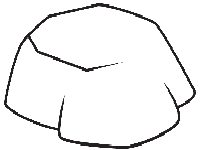
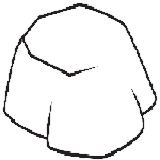
Resized the Hole and Rock images to be consistent sizes and allow for using scale multiplier to set size in meters, Fixed issue drawing rock and hole images when the map wasn't full scale

diff --git a/robotcontrollerclient/src/control.cpp b/robotcontrollerclient/src/control.cpp
@@ -215,6 +215,8 @@ class ImageOverlay : public Gtk::DrawingArea {
             return true;
         }
 
+        // Scale factor of map means 1m = 160px, so scale multiplier sets
+        // the size of the rock and hole to scale multiplier meters in radius
         void add_rock_image(int x, int y, double scale_multiplier) {
             rock_data.emplace_back(x, y, scale_multiplier);
             queue_draw();
@@ -263,14 +265,12 @@ class ImageOverlay : public Gtk::DrawingArea {
         cr->paint();
         cr->restore();
 
-        cr->restore();
-    
         // Draw rocks
         for (const auto& data : rock_data) {
             int new_width = rock->get_width() * data.scale_multiplier;
             int new_height = rock->get_height() * data.scale_multiplier;
             auto scaled_pixbuf = rock->scale_simple(new_width, new_height, Gdk::INTERP_BILINEAR);
-            Gdk::Cairo::set_source_pixbuf(cr, scaled_pixbuf, data.x, data.y);
+            Gdk::Cairo::set_source_pixbuf(cr, scaled_pixbuf, data.x - (new_width / 2), 800 - (data.y - new_height / 2));
             cr->paint();
         }
     
@@ -279,10 +279,11 @@ class ImageOverlay : public Gtk::DrawingArea {
             int new_width = hole->get_width() * data.scale_multiplier;
             int new_height = hole->get_height() * data.scale_multiplier;
             auto scaled_pixbuf = hole->scale_simple(new_width, new_height, Gdk::INTERP_BILINEAR);
-            Gdk::Cairo::set_source_pixbuf(cr, scaled_pixbuf, data.x, data.y);
+            Gdk::Cairo::set_source_pixbuf(cr, scaled_pixbuf, data.x - (new_width / 2), 800 - (data.y - new_height / 2));
             cr->paint();
         }
 
+        cr->restore();
         cr->reset_clip();
     
         return true;
